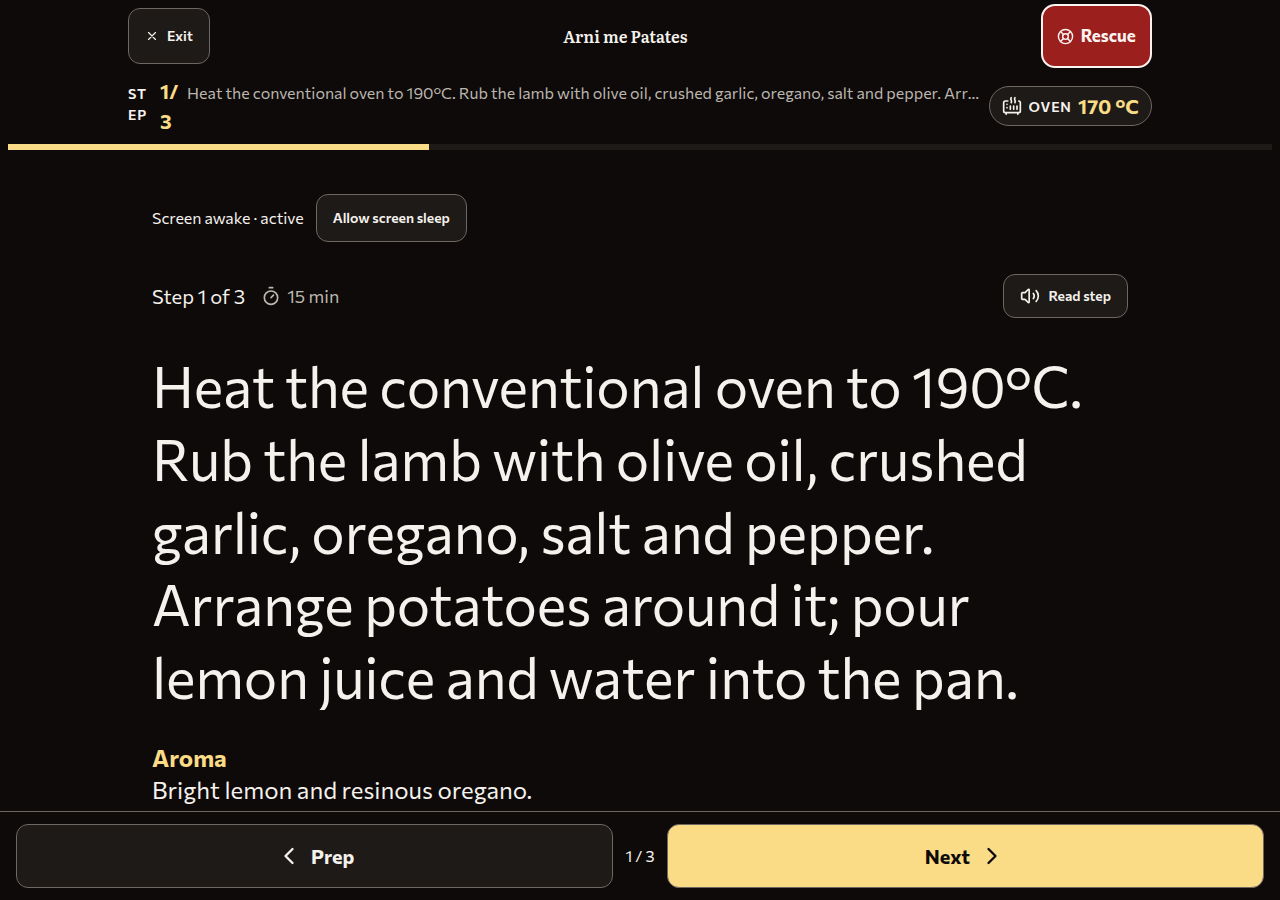
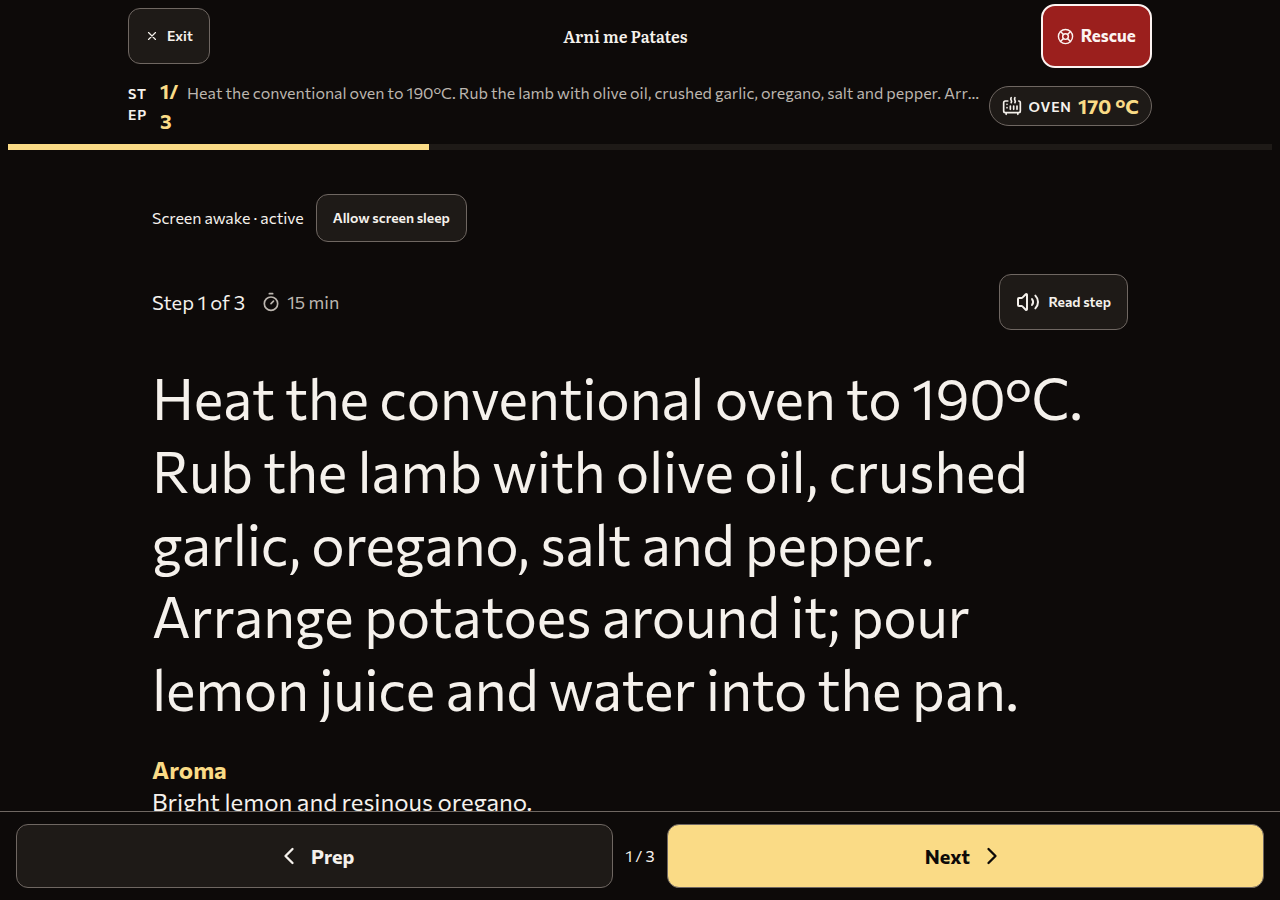
feat(kitchen): add high-contrast large-print spoken captions HUD and 56px knuckle tap zone

diff --git a/app/pages/recipes/[id]/cook.vue b/app/pages/recipes/[id]/cook.vue
@@ -180,7 +180,7 @@ const {
   start: startCamera,
   stop: stopCamera
 } = useAirSwipe(navigate)
-const { isSpeaking, isSupported: speechSupported, toggle: toggleSpeech, stop: stopSpeech } = useKitchenSpeech()
+const { isSpeaking, isSupported: speechSupported, currentNarrative, toggle: toggleSpeech, stop: stopSpeech } = useKitchenSpeech()
 const { isSupported, isActive: wakeRequested, sentinel, request: requestWake, release } = useWakeLock()
 const wakeReleased = ref(false)
 
@@ -490,15 +490,38 @@ useSeoMeta({ title: () => `Cooking ${recipe.value?.title || 'recipe'} — Heirlo
           <button
             v-if="speechSupported"
             type="button"
-            class="kitchen-button speak-button scroll-mt-40 ml-auto inline-flex min-h-11 min-w-11 items-center gap-2"
+            class="kitchen-button speak-button scroll-mt-40 ml-auto inline-flex min-h-14 min-w-14 items-center gap-2"
             :class="{ 'speak-button--active': isSpeaking }"
             :aria-label="isSpeaking ? 'Stop reading step aloud' : `Read step ${index + 1} aloud`"
             @click="toggleSpeech(step, index + 1)"
           >
-            <UIcon :name="isSpeaking ? 'i-lucide-square' : 'i-lucide-volume-2'" class="size-5" aria-hidden="true" />
+            <UIcon :name="isSpeaking ? 'i-lucide-square' : 'i-lucide-volume-2'" class="size-6" aria-hidden="true" />
             {{ isSpeaking ? 'Stop reading' : 'Read step' }}
           </button>
         </div>
+        <aside
+          v-if="isSpeaking && currentNarrative"
+          role="status"
+          aria-live="polite"
+          class="kitchen-caption-hud fixed bottom-24 inset-x-4 z-40 mx-auto max-w-3xl rounded-xl border-2 border-k-accent bg-k-paper/95 p-4 shadow-2xl backdrop-blur-md"
+        >
+          <div class="flex items-start justify-between gap-3">
+            <div class="flex items-center gap-2 text-k-accent font-semibold text-sm uppercase tracking-wider">
+              <UIcon name="i-lucide-volume-2" class="size-5 animate-pulse" aria-hidden="true" />
+              <span>Reading Step {{ index + 1 }}</span>
+            </div>
+            <button
+              type="button"
+              class="kitchen-button min-h-11 min-w-11 p-2 text-sm"
+              aria-label="Dismiss spoken captions"
+              @click="stopSpeech"
+            >
+              <UIcon name="i-lucide-square" class="size-4" aria-hidden="true" />
+              Stop
+            </button>
+          </div>
+          <p class="mt-2 text-xl font-medium leading-relaxed text-k-ink sm:text-2xl">{{ currentNarrative }}</p>
+        </aside>
         <section v-if="notesPlan" class="kitchen-panel !mt-4 rounded-lg border border-k-rule p-5" aria-labelledby="split-hint-title">
           <h2 id="split-hint-title" class="text-2xl">Only one step saved</h2>
           <p class="mt-3 text-lg">This recipe’s notes contain {{ stepCountPhrase(notesPlan.steps.length) }} method{{ notesPlan.steps.some(row => row.durationMinutes) ? ' with timings' : '' }}. Split it into steps to cook one stage at a time.</p>

diff --git a/scripts/e2e-user-flows.js b/scripts/e2e-user-flows.js
@@ -483,16 +483,22 @@ async function journey(browser, viewport) {
       const read = page.getByRole('button', { name: /^Read step \d+ aloud$/ })
       await read.waitFor()
       const box = await read.boundingBox()
-      assert(box && box.width >= 44 && box.height >= 44, 'Read step needs a 44×44px target, got ' + JSON.stringify(box))
+      assert(box && box.width >= 44 && box.height >= 56, 'Read step needs a 44×56px knuckle target, got ' + JSON.stringify(box))
       assert(await page.evaluate(() => window.__speech.spoken.length) === 0, 'Narration must be off until the cook asks for it')
       await tap(read)
-      const stop = page.getByRole('button', { name: 'Stop reading step aloud' })
+      // The speak button and the caption HUD both expose a stop control; the first is the step-row button.
+      const stop = page.getByRole('button', { name: 'Stop reading step aloud' }).first()
       await stop.waitFor()
+      const hud = page.locator('.kitchen-caption-hud')
+      await hud.waitFor({ state: 'visible' })
+      assert(await hud.getAttribute('role') === 'status', 'Caption HUD needs role=status')
       const spoken = await page.evaluate(() => window.__speech.spoken)
       assert(spoken.length === 1 && /^Step \d+\./.test(spoken[0].text) && spoken[0].lang === 'en-US' && spoken[0].rate === 0.95, 'Reading should speak the numbered step in English at 0.95: ' + JSON.stringify(spoken))
+      assert((await hud.innerText()).includes(spoken[0].text), 'Caption HUD should show the spoken narrative')
       await page.evaluate(() => window.scrollTo(0, 0))
       await shot(page, viewport, 'kitchen-read-step-speaking')
       await tap(stop)
+      await hud.waitFor({ state: 'hidden' })
       await page.getByRole('button', { name: /^Read step \d+ aloud$/ }).waitFor()
       // Changing step silences narration in flight.
       await tap(page.getByRole('button', { name: /^Read step \d+ aloud$/ }))
